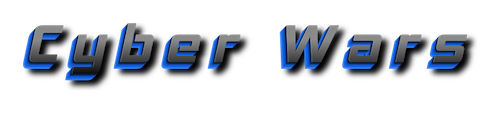
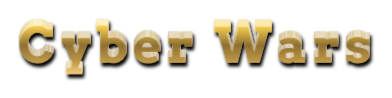
change completed

diff --git a/dist/main.js b/dist/main.js
@@ -1,1 +1,1 @@
[2 lines of base64/hex data omitted]

diff --git a/src/index.js b/src/index.js
@@ -5,77 +5,155 @@ window.mc = Mc
 let mc = new Mc()
 
 let gamebg = new Image()
-gamebg.src = "./imgs/background/background.jpeg"
+gamebg.src = "./imgs/background/banner.png"
 
 
 document.addEventListener('DOMContentLoaded', function(){
     
     let canv = document.getElementById('canvas')
     let ctx = canv.getContext('2d')
-    canv.width = 1080
-    canv.height = window.innerHeight
+    canv.width = 700
+    canv.height = 600
     let game = new Game(ctx, mc)
     game.start(gamebg, canvas)
 
-    let n = 0
-    let i = 20 
-    let j = this.y
-    let b = 0
+   let keys = {}
 
-    document.addEventListener('keydown', function(){
-        if (event.code === 'ArrowRight'){
-        mc.movef(ctx, gamebg, canvas, n, i)
-        n++
-        if (i < 1000) i += 10;
-        if (n === 33) n = 1;    
-        b = 0
+  
+    document.addEventListener('keydown', function(event){
+        
+        keys[event.code] = true
+        if (keys['ArrowRight'] ){
+            mc.left = false
+            mc.img.src = "./imgs/hero/idleandwalkr.png"
+            if (mc.x < 635){
+                mc.frameY += 1
+                mc.move(ctx, gamebg, canvas)
+                mc.x += mc.speed
+            }
         }
+    
 
-        if (event.code === 'ArrowLeft'){
-            mc.moveb(ctx, gamebg, canvas, n, i)
-            n++
-            if (i > -100) i -= 10;
-            if (n === 33) n = 1;    
-            b = 0 
+        if (keys['ArrowLeft'] ) {
+            mc.left = true
+            mc.img.src = "./imgs/hero/idleandwalkl.png"
+            if (mc.x > -52){
+                mc.frameY += 1
+                mc.move(ctx, gamebg, canvas)
+                mc.x -= mc.speed 
+            }
         }
+        
 
-        if (event.code === 'Space'){
-            setInterval(function(){mc.jump(ctx, gamebg, canvas, b, mc.x, j)
-                b++
-                if (j < 330) j -= 5; else {
-                    j = 350
+        if (keys['ArrowUp']) {
+            
+           if (!mc.left){
+            let up =setInterval(function(){
+                    mc.img.src = "./imgs/hero/teleport.png"
+                    mc.move(ctx, gamebg, canvas)
+                    if(mc.y > 250){mc.y -= mc.speed}
+                    mc.frameY += 1
+                    if (mc.frameY === 9) {
+                        clearInterval(up)
+                        mc.frameY = 0 
+                        mc.img.src = "./imgs/hero/idleandwalkr.png"
+                        mc.move(ctx, gamebg, canvas)
+                    }
+                }, 50)} else {
+                    let up =setInterval(function(){
+                        mc.img.src = "./imgs/hero/teleportl.png"
+                        mc.move(ctx, gamebg, canvas)
+                        if(mc.y > 250){mc.y -= mc.speed}
+                        mc.frameY += 1
+                        if (mc.frameY === 9) {
+                            clearInterval(up)
+                            mc.frameY = 0 
+                            mc.img.src = "./imgs/hero/idleandwalkl.png"
+                            mc.move(ctx, gamebg, canvas)
+                        }
+                    }, 50)
+
                 }
-                if (b === 33) b = 0;  },50)
+            
+        
             
         }
 
-        if (event.code === 'ArrowDown'){
-           if (mc.left) {
-               mc.down(ctx, gamebg, canvas, b, i, mc.y)
-                mc.y-- 
-                b ++
-                if (i > -100) i -= 10;
-                if (b === 16) b = 0
-            }
-        }
-
-        if (event.code === 'KeyQ') {
-            if (mc.left) {
-            let int = setInterval(function(){
-                    mc.attack(ctx, gamebg, canvas, b)
-                    b++
-                    if (b === 16) {
-                        clearInterval(int)
-                        b === 0
+        if (keys['ArrowDown']) {
+            
+            if(!mc.left){
+            let down = setInterval(function(){
+                mc.img.src = "./imgs/hero/teleport.png"
+                mc.move(ctx, gamebg, canvas)
+                if (mc.y < 490 ){mc.y += mc.speed }
+                mc.frameY += 1
+                if (mc.frameY === 9 ) {
+                    clearInterval(down)
+                    mc.frameY = 0 
+                    mc.img.src = "./imgs/hero/idleandwalkr.png"
+                    mc.move(ctx, gamebg, canvas)
+                }
+            }, 50)} else {
+                let down = setInterval(function(){
+                    mc.img.src = "./imgs/hero/teleportl.png"
+                    mc.move(ctx, gamebg, canvas)
+                    if (mc.y < 490 ){mc.y += mc.speed }
+                    mc.frameY += 1
+                    if (mc.frameY === 9 ) {
+                        clearInterval(down)
+                        mc.frameY = 0 
+                        mc.img.src = "./imgs/hero/idleandwalkl.png"
+                        mc.move(ctx, gamebg, canvas)
                     }
                 }, 50)
-            
+
             }
         }
 
-       
+        if (keys['KeyQ']) {
+            if (!mc.left){
+            let att = setInterval(function(){
+                mc.img.src = "./imgs/hero/attack.png"
+                mc.attack(ctx, gamebg, canvas)
+                mc.attackFrame += 1
+                if (mc.attackFrame === 18) {
+                    mc.attackFrame = 0 
+                    mc.img.src = "./imgs/hero/idleandwalkr.png"
+                    clearInterval(att)
+                    mc.move(ctx, gamebg, canvas)
+                }
 
+                
+            }, 50)} else {
+                let att = setInterval(function(){
+                    mc.img.src = "./imgs/hero/attackl.png"
+                    mc.attack(ctx, gamebg, canvas)
+                    mc.attackFrame += 1
+                    if (mc.attackFrame === 18) {
+                        mc.attackFrame = 0 
+                        mc.img.src = "./imgs/hero/idleandwalkl.png"
+                        clearInterval(att)
+                        mc.move(ctx, gamebg, canvas)
+                    }
+    
+                    
+                }, 50)
 
+            }
+        }
+        if (mc.frameY === 6) mc.frameY = 0;
+
+        document.addEventListener('keyup', function(event){
+           delete keys[event.code] 
+        })
+        
+          
+    })
+
+    document.addEventListener('keyup', function(event){
+        delete keys[event.code]
+        mc.frameY = 0 
+        game.start(gamebg, canvas)
     })
 
 

diff --git a/src/scripts/mc.js b/src/scripts/mc.js
@@ -1,77 +1,38 @@
 class Mc {
     constructor() {
         this.img = new Image()
-        this.img.src = "./imgs/mc/walk/herowalking0.png"
-        this.width = 200
-        this.height = 200
+        this.img.src = "./imgs/hero/idleandwalkr.png"
+        this.width = 142
+        this.height = 107
         this.x = 20
-        this.y = 580
-        this.points = 25 
-        this.left = false 
-    }
-
-    
-    
-
-    movef(ctx, img,canvas, n, i) {
-        let self = this
+        this.y = 400
+        this.frameX = 0
+        this.frameY = 0
+        this.attackFrame = 0 
+        this.speed = 10
+        this.moving = false
         this.left = false
-        self.img.src = `./imgs/mc/walk/herowalking${n}.png`
-          this.img.onload  = function() {
-            ctx.clearRect(0,0, canvas.width, canvas.height)
-            ctx.drawImage(img,0,0)
-            ctx.drawImage(self.img, i, 580, self.width, self.height)
-        }
-        this.x = i
-        
     }
 
-    moveb(ctx, img,canvas, n, i) {
-        this.left = true 
-        let self = this
-        self.img.src = `./imgs/mc/walkb/herowalking${n}.png`
-          this.img.onload  = function() {
-            ctx.clearRect(0,0, canvas.width, canvas.height)
-            ctx.drawImage(img,0,0)
-            ctx.drawImage(self.img, i, 580, self.width, self.height)
-        }
-        this.x = i
-        
+    
+    
+
+    move(ctx, img,canvas) {
+        ctx.clearRect(0,0, canvas.width, canvas.height)
+        ctx.drawImage(img,70,100)
+        ctx.drawImage(this.img, this.width * this.frameX, this.height * this.frameY, this.width, this.height, this.x, this.y , this.width, this.height)  
     }
 
-    jump(ctx, img, canvas, b, i, j) {
-        let self = this 
-        console.log(this.x)
-        self.img.src = `./imgs/mc/walkb/jump/robot4-jump${b}.png`
-        this.img.onload  = function() {
-            ctx.clearRect(0,0, canvas.width, canvas.height)
-            ctx.drawImage(img,0,0)
-            ctx.drawImage(self.img, this.x, j, 420, 420)
-            this.x += 20
-        }
-        
+    attack(ctx, img, canvas) {
+        console.log('hey')
+        ctx.clearRect(0,0, canvas.width, canvas.height)
+        ctx.drawImage(img,70,100)
+        ctx.drawImage(this.img, this.width * this.frameX, this.height * this.attackFrame, this.width, this.height, this.x, this.y , this.width, this.height)   
     }
 
-    down(ctx, img, canvas, b, i, ) {
-        let self = this
-        this.img.src = `./imgs/mc/walkb/down/robot4-crouch${b}.png`
-        this.img.onload  = function() {
-            console.log(ctx)
-            ctx.clearRect(0,0, canvas.width, canvas.height)
-            ctx.drawImage(img,0,0)
-            ctx.drawImage(self.img, i-10, 610, 175, 175)
-        }
-    }
+    
 
-    attack(ctx, img, canvas, b) {
-        let self = this 
-        this.img.src = `./imgs/mc/walkb/attack/robot4-attack${b}.png`
-        this.img.onload = function() {
-            ctx.clearRect(0,0, canvas.width, canvas.height)
-            ctx.drawImage(img,0,0)
-            ctx.drawImage(self.img, self.x, self.y-25, 225, 225)
-        }
-    }
+    
 }
 
 module.exports = Mc

diff --git a/dist/main.css b/dist/main.css
@@ -1,1 +1,1 @@
-#body{background-image:url(../imgs/background/bodybg.jpg);display:flex;justify-content:center;align-items:center;flex-wrap:wrap}#canvas{background:transparent;position:absolute;top:120px;right:15%}#div1{display:flex;justify-content:center;align-items:center}
+#body{background-image:url(../imgs/background/bodybg.png);display:flex;justify-content:center;align-items:center;flex-wrap:wrap}#canvas{background:#c7a361;position:absolute;top:120px;right:28%;border:1px solid #000}#div1{display:flex;justify-content:center;align-items:center}

diff --git a/src/scripts/game.js b/src/scripts/game.js
@@ -9,8 +9,8 @@ class Game {
         let self = this
         img.onload = function() {
             self.ctx.clearRect(0,0,canvas.width, canvas.height )
-            self.ctx.drawImage(img,0,0)
-            self.ctx.drawImage(self.mc.img, self.mc.x, self.mc.y, self.mc.width, self.mc.height)
+            self.ctx.drawImage(img,70,100)
+            self.ctx.drawImage(self.mc.img, 0, 0, self.mc.width, self.mc.height, self.mc.x, self.mc.y , self.mc.width, self.mc.height)
         }
     }
 

diff --git a/src/index.scss b/src/index.scss
@@ -1,7 +1,7 @@
 
 
 #body{
-    background-image: url(../imgs/background/bodybg.jpg);
+    background-image: url(../imgs/background/bodybg.png);
     display: flex;
     justify-content: center;
     align-items: center;
@@ -9,10 +9,11 @@
 }
 
 #canvas{
-    background: transparent; 
+    background: #c7a361; 
     position: absolute;
     top: 120px;
-    right: 15%;
+    right: 28%;
+    border: 1px solid black;
 }
 
 #div1{
